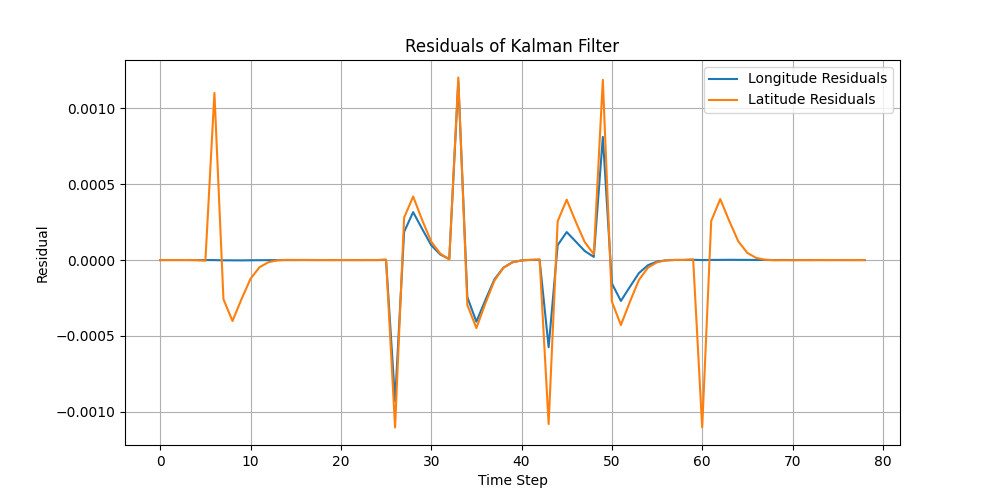
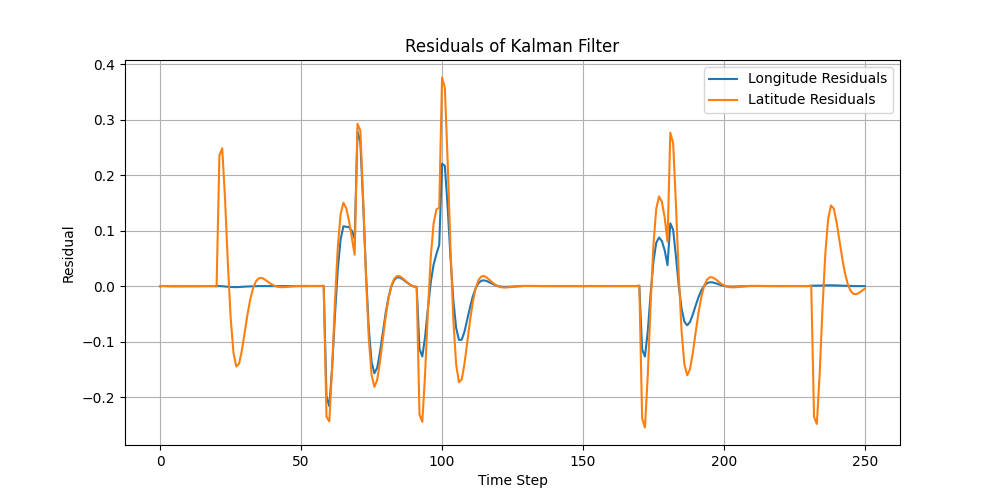
updated error distributions

diff --git a/controllers/kf_gps_acc_gy_rssi/kf_gps_acc_gy_rssi.py b/controllers/kf_gps_acc_gy_rssi/kf_gps_acc_gy_rssi.py
@@ -33,12 +33,12 @@ def kalman_filter_update(x, P, gps_data, imu_data, rssi_data):
         [0, 0, 1, 0, 0, 0, 0, 0, 0],
         [0, 0, 0, 0, 0, 0, 0, 0, 1]
     ])
-    Q = np.eye(9) * 0.01
+    Q = np.eye(9) * 0.1 # Increasing from 0.01 to 0.1 to account for more dynamic unpredictabilit
     R_combined = np.array([
-        [0.0001, 0, 0, 0],
-        [0, 0.0001, 0, 0],
-        [0, 0, 0.0001, 0],
-        [0, 0, 0, 2]
+        [9, 0, 0, 0], # Variance for GPS X (3m)^2
+        [0, 9, 0, 0], # Variance for GPS Y (3m)^2
+        [0, 0, 9, 0], # Variance for GPS Z (3m)^2
+        [0, 0, 0, 16] # Variance for RSSI (4 units)^2
     ])
 
     u = np.hstack(imu_data)
@@ -153,7 +153,7 @@ def main():
         imu_acc = np.array(acc.getValues())
         imu_gyro = np.array(gyro.getValues())
         imu_data = np.hstack([imu_acc, imu_gyro])
-        rssi_measurement = np.random.normal(-70, 2)  # Simulated RSSI value
+        rssi_measurement = np.random.normal(-70, 4)  # Simulated RSSI value
 
         x, P = kalman_filter_update(x, P, noisy_gps, imu_data, rssi_measurement)
 
